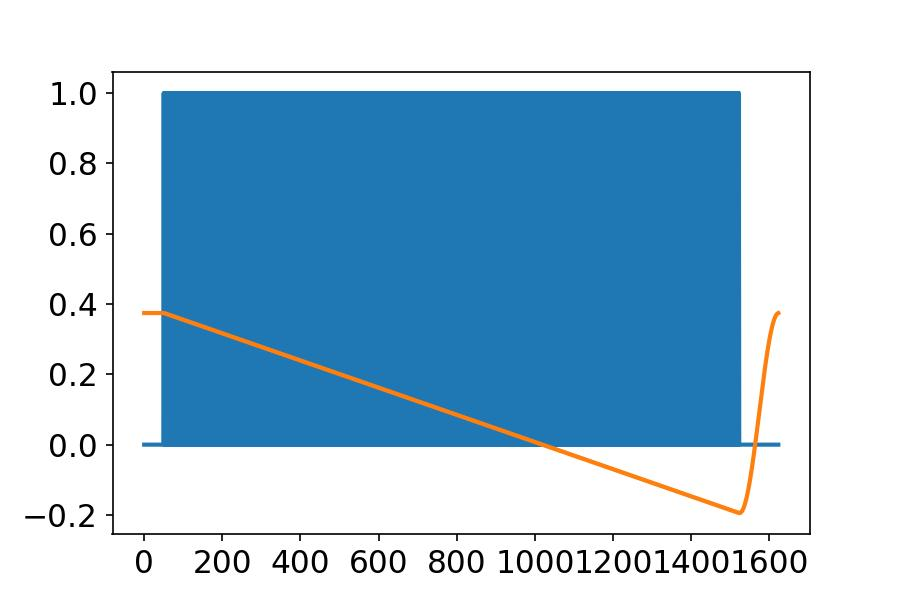
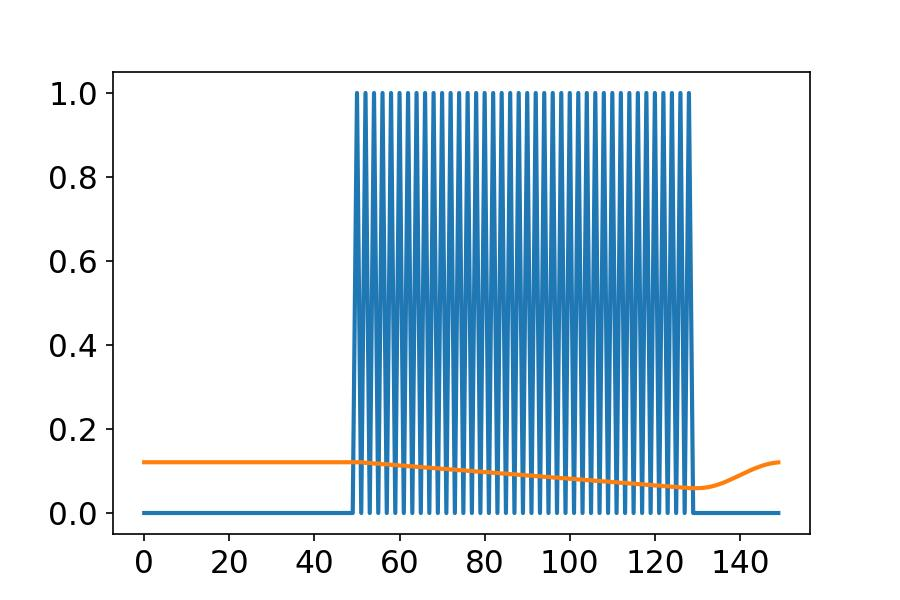
Cancer desktop commit

diff --git a/ThreadWeaver.py b/ThreadWeaver.py
@@ -770,7 +770,7 @@ class WeaverThread(QThread):
                     print(message)
                     camera_error_message = message
                     break
-                # print('time to fetch data: '+str(round(time.time()-start,3)))
+                print('time to fetch data: '+str(round(time.time()-start,3)))
                 memory_slot = an_action.memory_slot
                 # print(memory_slot)
                 data_backs += 1

diff --git a/ThreadGPU.py b/ThreadGPU.py
@@ -308,7 +308,7 @@ class GPUThread(QThread):
             
             finally:
                 self.active_tasks = max(0, self.active_tasks - 1)
-            if time.time()-t1>1:
+            if time.time()-t1>0.01:
                 print('GPU thread took ', round(time.time()-t1,2), ' seconds for action: ', self.item.action)
             self.item = self.queue.get()
             # print('GPU queue size:', self.queue.qsize())
